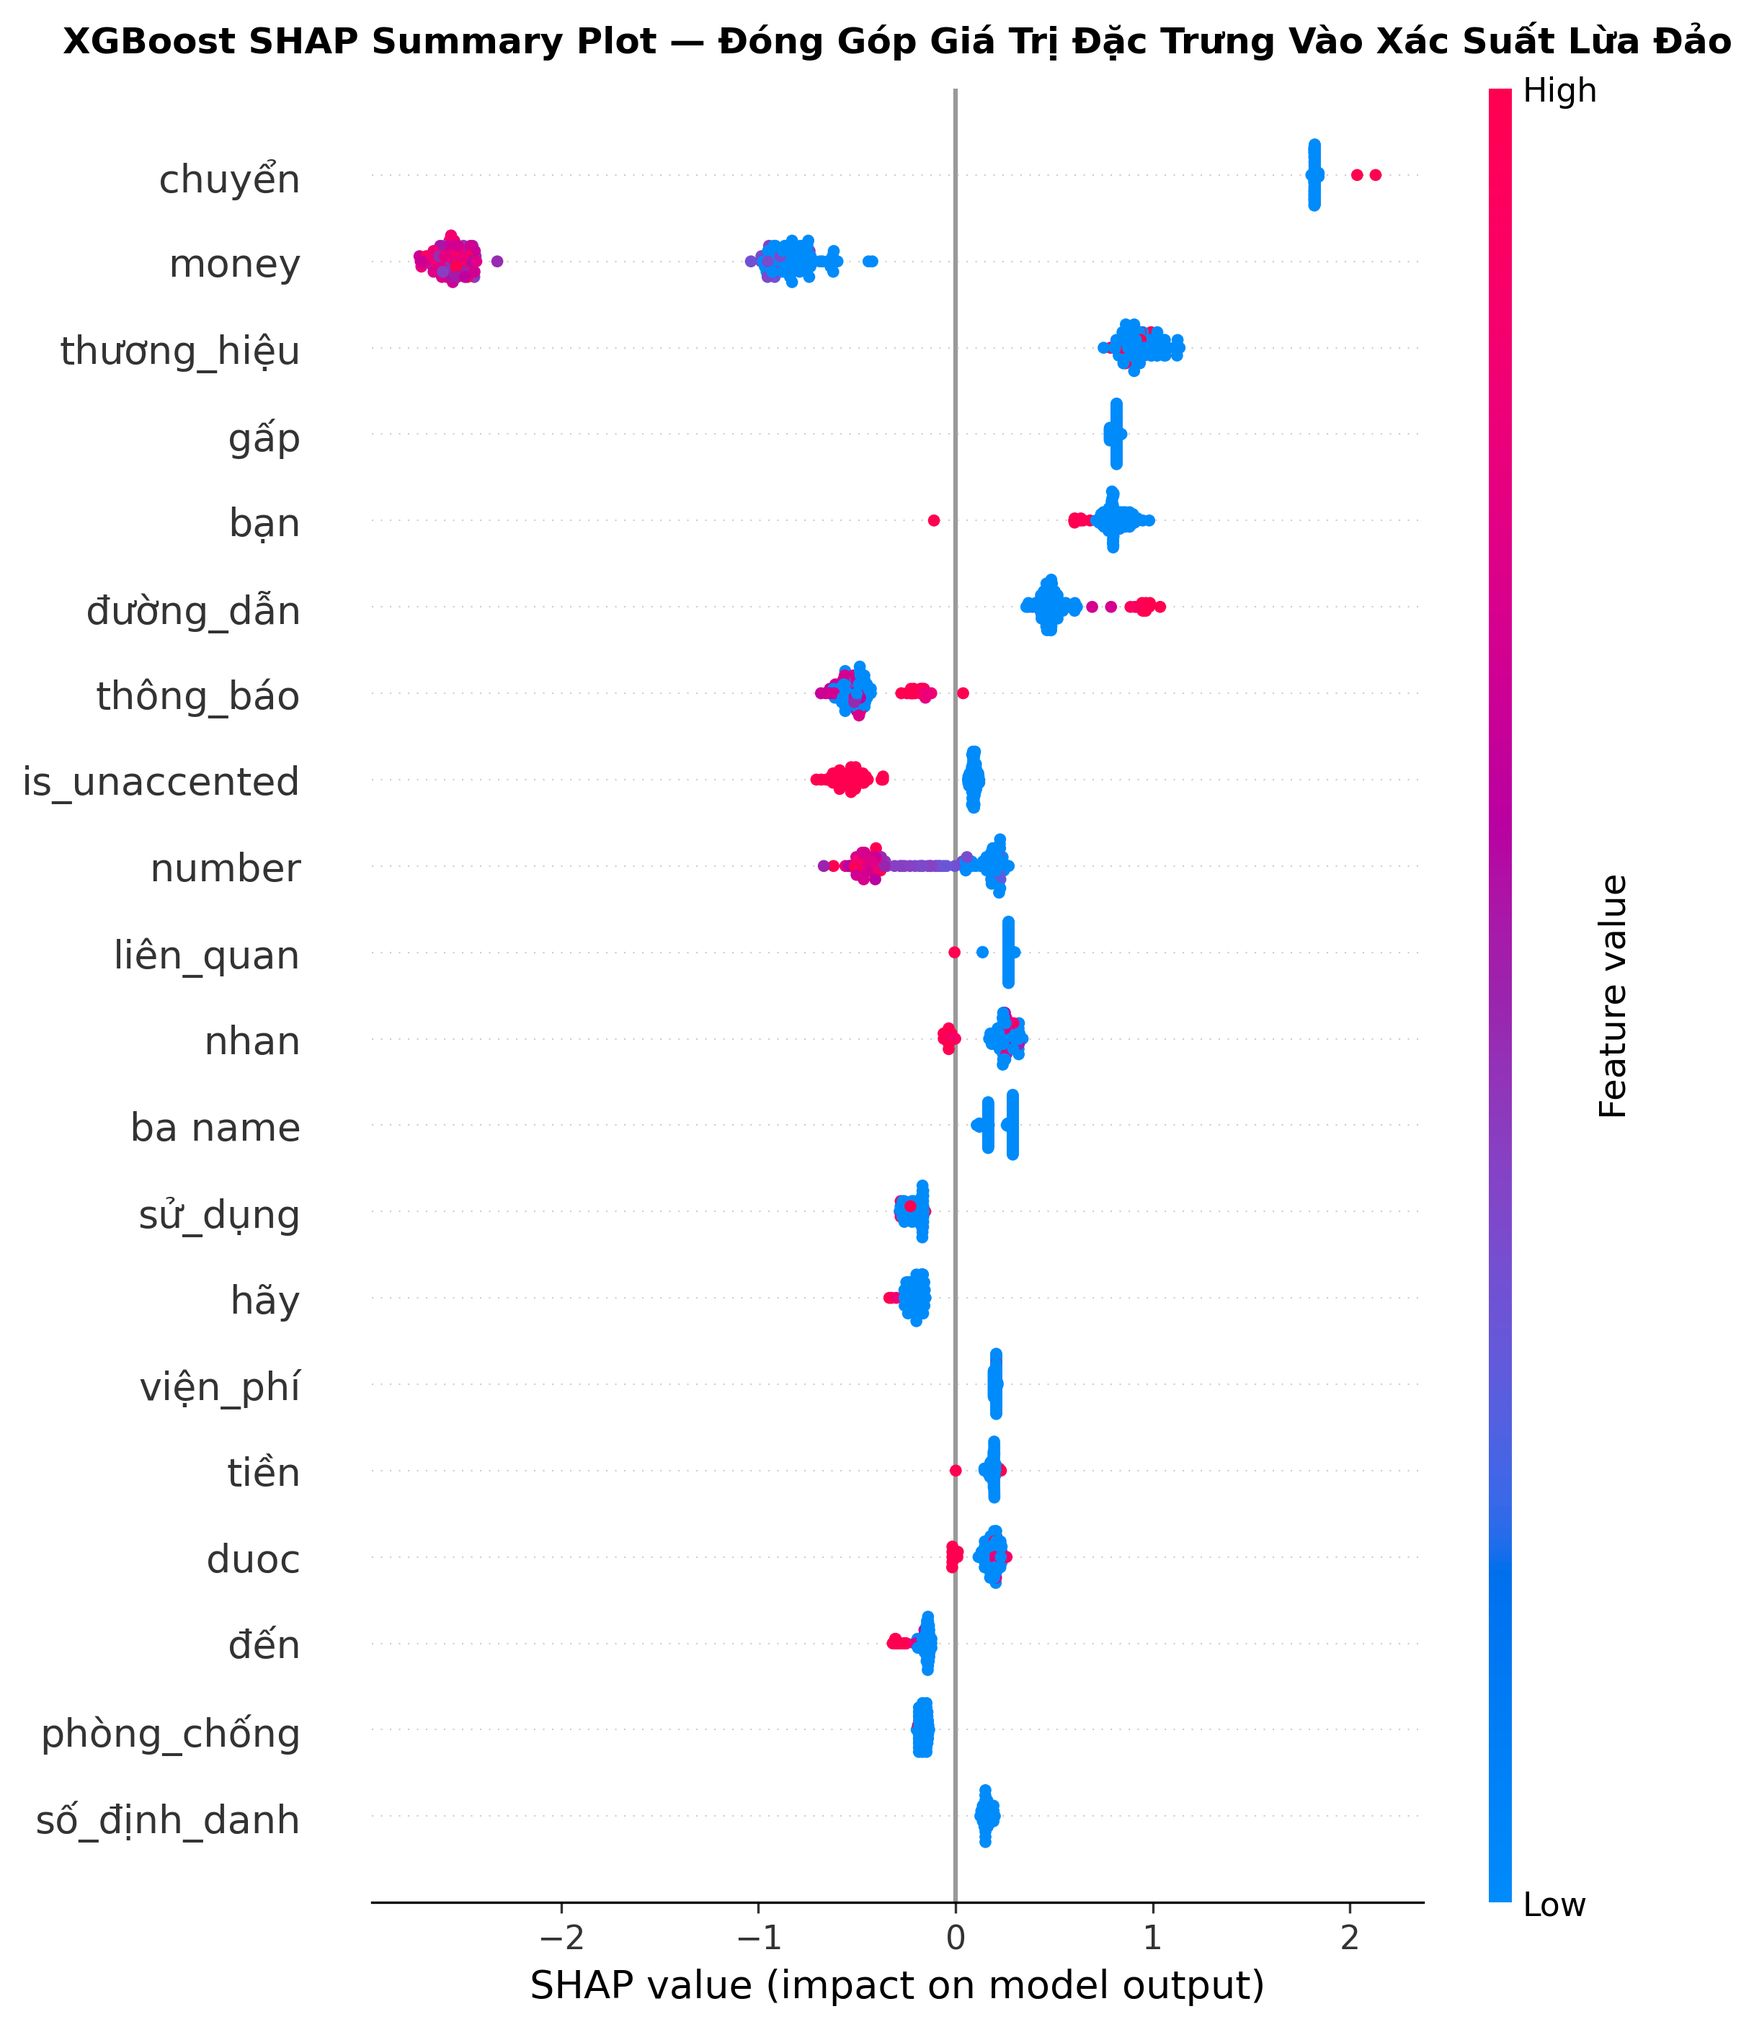
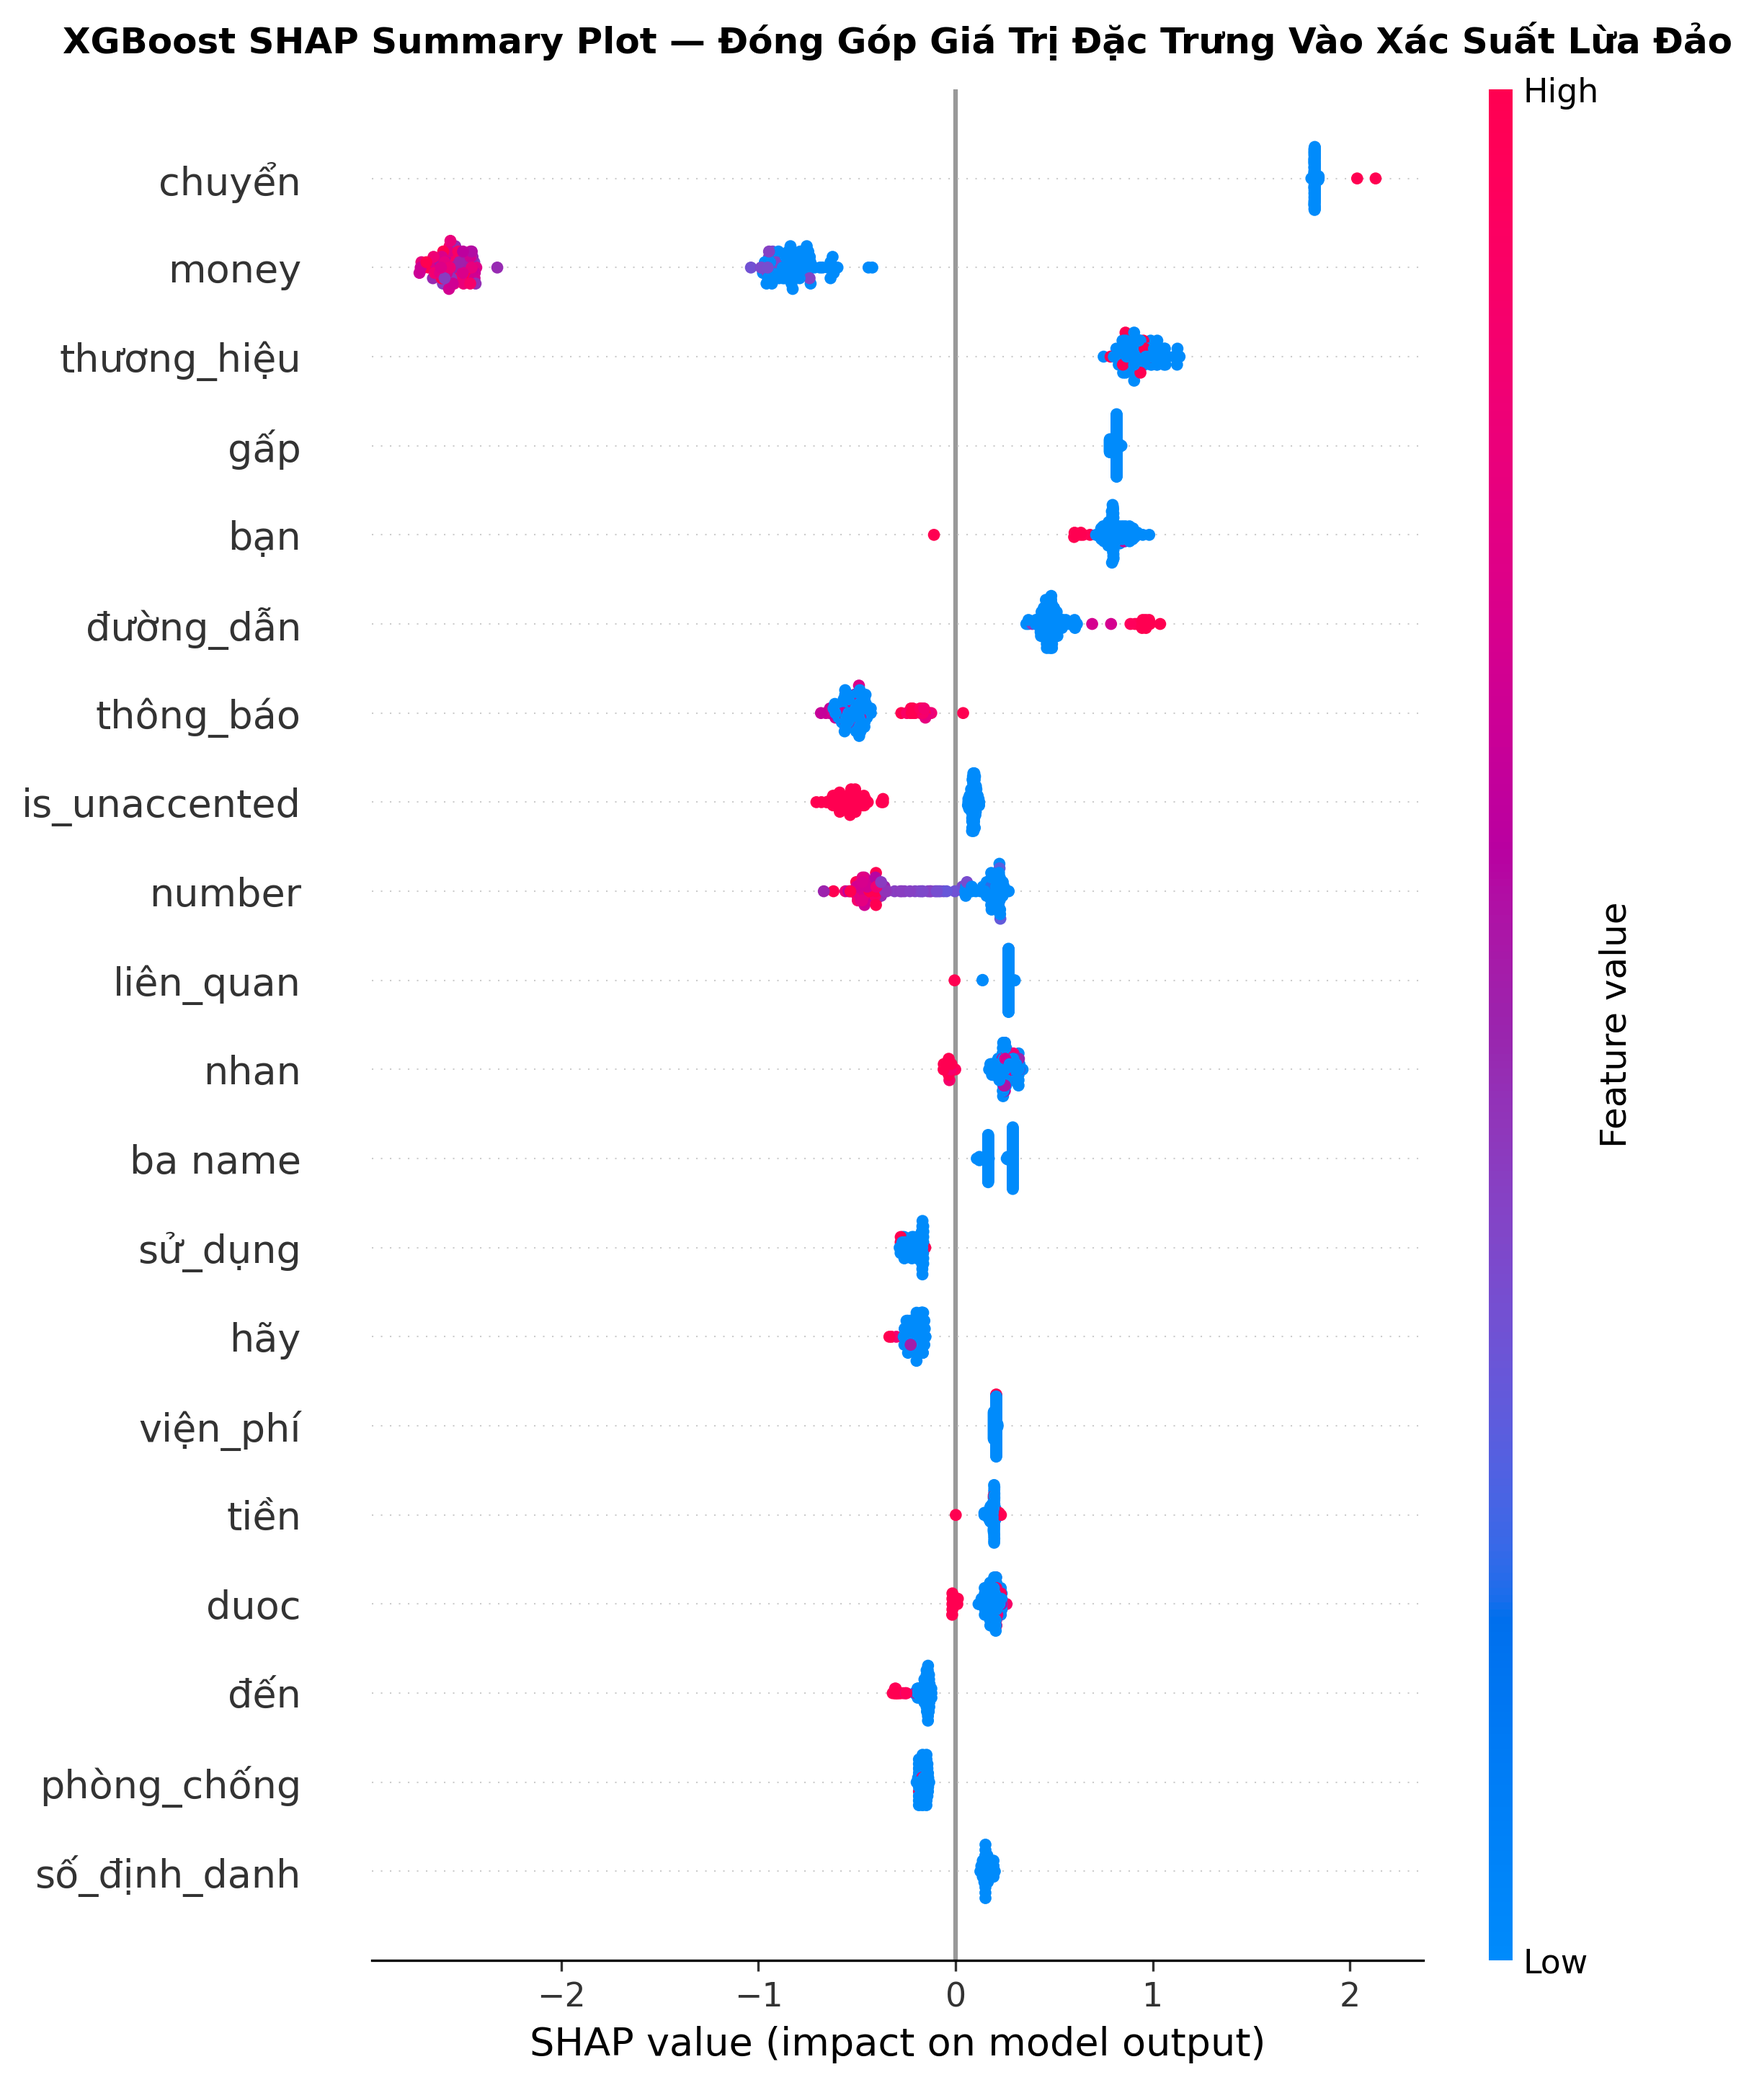
refactor(eval): apply sigmoid calibration for decision_function and clean subplot axes
- use standard logistic sigmoid (expit) instead of min-max scaling for decision_function
- hide unused axes in confusion matrix grid for subsets < 4 models
- remove tight_layout call in SHAP plot to prevent colorbar distortion
- define centralized MODEL_METADATA dictionary

diff --git a/draft/scam-detection/src/evaluation/metrics_calculator.py b/draft/scam-detection/src/evaluation/metrics_calculator.py
@@ -12,6 +12,7 @@ from __future__ import annotations
 
 import numpy as np
 import pandas as pd
+from scipy.special import expit
 from sklearn.metrics import (
     accuracy_score,
     brier_score_loss,
@@ -21,6 +22,29 @@ from sklearn.metrics import (
     recall_score,
     roc_auc_score,
 )
+
+MODEL_METADATA = {
+    "XGBoost": {
+        "features": "5,015 (TF-IDF + 15 aux)",
+        "hyperparameters": "n_est=300, depth=5, lr=0.05, subsample=0.7, colsample=0.8, scale_pos_weight=4.22",
+        "notes": "Best Overall Model, FN=2, FP=6 (Phase 05 — Cẩm)",
+    },
+    "SVM Linear": {
+        "features": "5,015 (TF-IDF + 15 aux)",
+        "hyperparameters": "C=10.0 (CalibratedClassifierCV 5-fold)",
+        "notes": "Best Linear Model, FN=3, FP=6 (Phase 06 — Cẩm)",
+    },
+    "Random Forest": {
+        "features": "5,015 (TF-IDF + 15 aux)",
+        "hyperparameters": "n_est=200, depth=50, split=2, leaf=2, max_feat=0.2",
+        "notes": "Best Tree Ensemble, FN=2, FP=8 (Phase 05 — Sơn)",
+    },
+    "Naive Bayes": {
+        "features": "5,000 (TF-IDF)",
+        "hyperparameters": "alpha=0.5 (MultinomialNB)",
+        "notes": "Baseline Model, FN=6, FP=14 (Phase 04 — Thanh)",
+    },
+}
 
 
 def resolve_eval_features(model, model_name: str, X_test):
@@ -42,10 +66,7 @@ def get_predicted_probabilities(model, X) -> np.ndarray | None:
         return model.predict_proba(X)[:, 1]
     if hasattr(model, "decision_function"):
         df = model.decision_function(X)
-        df_range = df.max() - df.min()
-        if df_range < 1e-5:
-            return np.zeros_like(df, dtype=float)
-        return (df - df.min()) / df_range
+        return expit(df)
     return None
 
 

diff --git a/draft/scam-detection/src/evaluation/plot_comparator.py b/draft/scam-detection/src/evaluation/plot_comparator.py
@@ -60,6 +60,10 @@ def plot_confusion_matrices_grid(models_dict: dict, X_test, y_test, figures_dir:
             ax.set_xlabel("Dự đoán", fontsize=10)
             ax.set_ylabel("Thực tế", fontsize=10)
 
+        # Hide unused subplots if models_dict has fewer than 4 models
+        for idx in range(len(models_dict), len(axes_flat)):
+            axes_flat[idx].set_visible(False)
+
         plt.suptitle("Ma Trận Nhầm Lẫn So Sánh 4 Mô Hình (Holdout Test Set = 439 mẫu)",
                      fontsize=14, fontweight="bold", y=0.98)
         plt.tight_layout()

diff --git a/draft/scam-detection/src/evaluation/xai_explainer.py b/draft/scam-detection/src/evaluation/xai_explainer.py
@@ -89,7 +89,6 @@ def compute_and_save_shap_plot(model, X_sample, feature_names: list[str], figure
         )
         plt.title("XGBoost SHAP Summary Plot — Đóng Góp Giá Trị Đặc Trưng Vào Xác Suất Lừa Đảo",
                   fontsize=12, fontweight="bold", pad=12)
-        plt.tight_layout()
         out_path = figures_dir / "shap_summary.png"
         plt.savefig(out_path, dpi=DPI, bbox_inches="tight")
         return out_path
